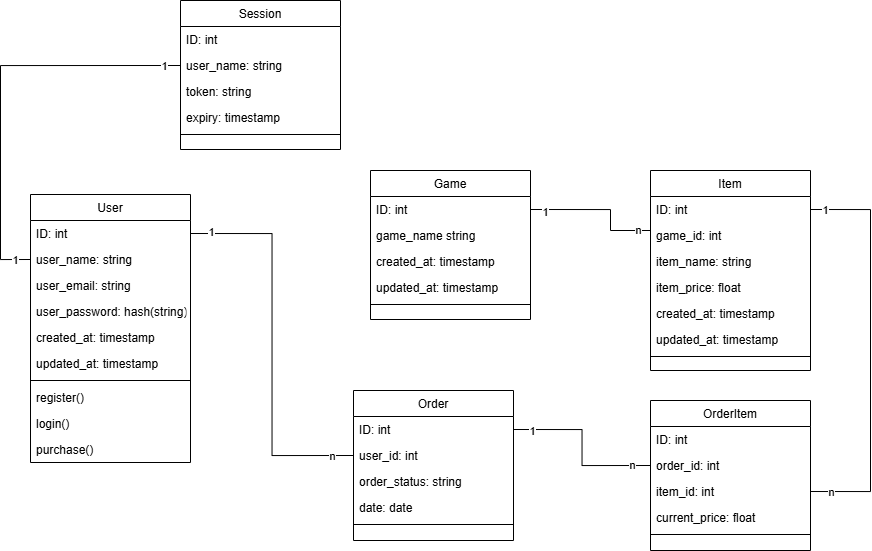
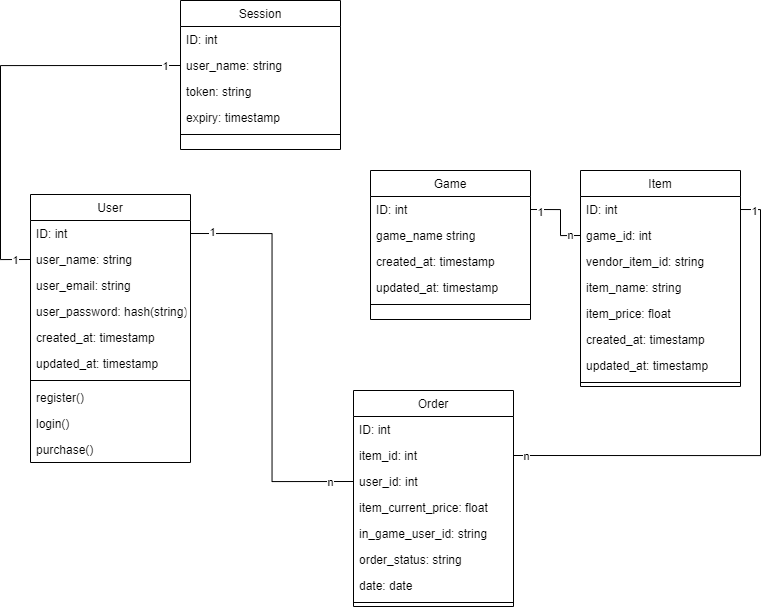
feat: update class structure

diff --git a/database/postgres.go b/database/postgres.go
@@ -330,6 +330,18 @@ func (postgres *PostgresDB) FetchOrderByID(id int) (*models.Order, error) {
 	return &order, nil
 }
 
+func (postgres *PostgresDB) FetchOrderByItemID(itemId int) (*models.Order, error) {
+	var order models.Order = models.Order{}
+	result := postgres.DB.Raw("SELECT * FROM order WHERE item_id = ?", itemId).Scan(&order)
+	if result.Error != nil {
+		return &order, result.Error
+	}
+	if result.RowsAffected == 0 {
+		return &order, errors.New("no data found")
+	}
+	return &order, nil
+}
+
 func (postgres *PostgresDB) FetchOrderByUserID(userId int) (*models.Order, error) {
 	var order models.Order = models.Order{}
 	result := postgres.DB.Raw("SELECT * FROM order WHERE user_id = ?", userId).Scan(&order)
@@ -355,88 +367,6 @@ func (postgres *PostgresDB) UpdateOrder(id int, order *models.Order) error {
 
 func (postgres *PostgresDB) DeleteOrder(id int) error {
 	result := postgres.DB.Delete(&models.Order{}, id)
-	if result.Error != nil {
-		return result.Error
-	}
-	if result.RowsAffected == 0 {
-		return errors.New("no data found")
-	}
-	return nil
-}
-
-//------------------------------------------------
-// DML and DQL operations to 'order_items' table
-//------------------------------------------------
-
-func (postgres *PostgresDB) StoreOrderItem(orderItem *models.OrderItem) error {
-	result := postgres.DB.Create(&orderItem)
-	if result.Error != nil {
-		return result.Error
-	}
-	return nil
-}
-
-func (postgres *PostgresDB) FetchOrderItems() (*[]models.OrderItem, error) {
-	var orderItems []models.OrderItem = []models.OrderItem{}
-	result := postgres.DB.Find(&orderItems)
-	if result.Error != nil {
-		return &orderItems, result.Error
-	}
-	if result.RowsAffected == 0 {
-		return &orderItems, errors.New("no data found")
-	}
-	return &orderItems, nil
-}
-
-func (postgres *PostgresDB) FetchOrderItemByID(id int) (*models.OrderItem, error) {
-	var orderItem models.OrderItem = models.OrderItem{}
-	result := postgres.DB.First(&orderItem, id)
-	if result.Error != nil {
-		return &orderItem, result.Error
-	}
-	if result.RowsAffected == 0 {
-		return &orderItem, errors.New("no data found")
-	}
-	return &orderItem, nil
-}
-
-func (postgres *PostgresDB) FetchOrderItemByOrderID(orderId int) (*models.OrderItem, error) {
-	var orderItem models.OrderItem = models.OrderItem{}
-	result := postgres.DB.Raw("SELECT * FROM order WHERE user_id = ?", orderId).Scan(&orderItem)
-	if result.Error != nil {
-		return &orderItem, result.Error
-	}
-	if result.RowsAffected == 0 {
-		return &orderItem, errors.New("no data found")
-	}
-	return &orderItem, nil
-}
-
-func (postgres *PostgresDB) FetchOrderItemByItemID(itemId int) (*models.OrderItem, error) {
-	var orderItem models.OrderItem = models.OrderItem{}
-	result := postgres.DB.Raw("SELECT * FROM order WHERE user_id = ?", itemId).Scan(&orderItem)
-	if result.Error != nil {
-		return &orderItem, result.Error
-	}
-	if result.RowsAffected == 0 {
-		return &orderItem, errors.New("no data found")
-	}
-	return &orderItem, nil
-}
-
-func (postgres *PostgresDB) UpdateOrderItem(id int, orderItem *models.OrderItem) error {
-	result := postgres.DB.Model(&models.OrderItem{}).Where("id = ?", id).Updates(&orderItem)
-	if result.Error != nil {
-		return result.Error
-	}
-	if result.RowsAffected == 0 {
-		return errors.New("no data found")
-	}
-	return nil
-}
-
-func (postgres *PostgresDB) DeleteOrderItem(id int) error {
-	result := postgres.DB.Delete(&models.OrderItem{}, id)
 	if result.Error != nil {
 		return result.Error
 	}

diff --git a/models/models.go b/models/models.go
@@ -26,24 +26,21 @@ type Game struct {
 }
 
 type Item struct {
-	ID        int       `json:"item_id"`
-	GameID    int       `json:"item_game_id"`
-	Name      string    `json:"item_name"`
-	Price     float64   `json:"item_price"`
-	CreatedAt time.Time `json:"item_created_at"`
-	UpdatedAT time.Time `json:"item_updated_at"`
+	ID           int       `json:"item_id"`
+	GameID       int       `json:"item_game_id"`
+	VendorItemID int       `json:"item_vendor_item_id"`
+	Name         string    `json:"item_name"`
+	Price        float64   `json:"item_price"`
+	CreatedAt    time.Time `json:"item_created_at"`
+	UpdatedAT    time.Time `json:"item_updated_at"`
 }
 
 type Order struct {
-	ID     int       `json:"order_id"`
-	UserID int       `json:"order_user_id"`
-	Status string    `json:"order_status"`
-	Date   time.Time `json:"order_date"`
-}
-
-type OrderItem struct {
-	ID           int     `json:"order_item_id"`
-	OrderID      int     `json:"order_item_order_id"`
-	ItemID       int     `json:"order_item_item_id"`
-	CurrentPrice float64 `json:"order_item_current_price"`
+	ID               int       `json:"order_id"`
+	ItemID           int       `json:"order_item_id"`
+	UserID           int       `json:"order_user_id"`
+	ItemCurrentPrice float64   `json:"order_item_current_price"`
+	InGameUserID     int       `json:"order_in_game_user_id"`
+	Status           string    `json:"order_status"`
+	Date             time.Time `json:"order_date"`
 }
